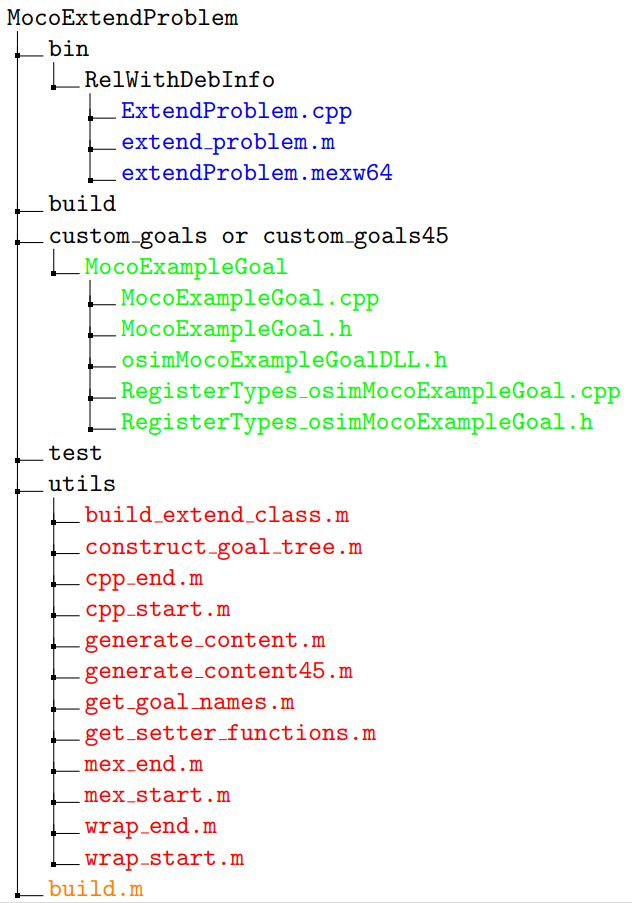
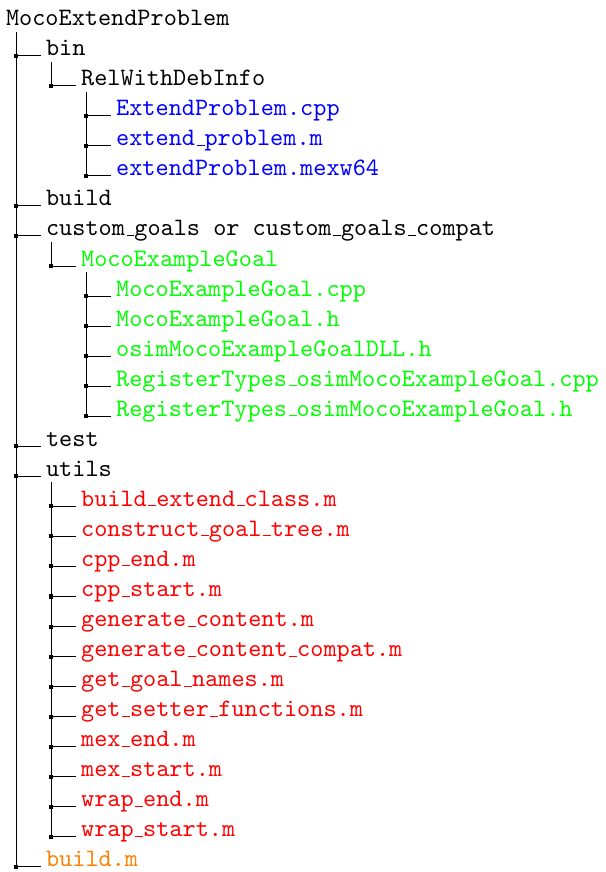
verified MEP in 4.5 and pre4.5, regenerated tree figure

Changed region(s): [[0.0, 0.0, 1.0, 1.0]]

diff --git a/test/example2DWalking/WalkSim_predictive.m b/test/example2DWalking/WalkSim_predictive.m
@@ -345,16 +345,6 @@ solver.set_parallel(1);
 % Solve the problem
 % =================
 gaitPredictiveSolution = study.solve();
-reference_data = MocoTrajectory(output_dir + 'outputReference\states_tracked_states.sto');
-
-if ~gaitPredictiveSolution.isNumericallyEqual(reference_data)
-    warning('The simulation is not numerically equal to outputReference. Check ' + output_dir);
-end
-
-% Check to make sure the problem solved successfully
-if ~strcmp(gaitPredictiveSolution.getStatus(),"Solve_Succeeded")
-    error('The problem did not solve succesfully - exiting');
-end
 
 % Extract some information from the solution
 output(1) = gaitPredictiveSolution.getObjective();
@@ -408,7 +398,7 @@ ref = MocoTrajectory(output_dir + '/outputReference/states_half.sto');
 if gaitPredictiveSolution.isNumericallyEqual(ref)
     warning("output matches output reference for " + output_dir);
 else
-    warning("tracking failed to match reference output for goal " + output_dir);
+    warning("reference failed to match reference output for goal " + output_dir);
 end
 
 end

diff --git a/test/example2DWalking/driver.m b/test/example2DWalking/driver.m
@@ -1,11 +1,11 @@
-opensimroot = 'C:\opensim 4.3\'; %create a char array that has the opensim path toplevel directory
+opensimroot = 'C:\opensim 4.5\'; %create a char array that has the opensim path toplevel directory
 addpath([opensimroot 'bin'], [opensimroot 'sdk\lib']); %add the opensim path to the
 javaaddpath([opensimroot 'bin'], [opensimroot 'sdk\lib']); %add opensimroot bin and the java path to MATLAB's dynamic path path
 setenv('PATH', [[opensimroot 'bin'] ';' [opensimroot 'sdk\lib'] ';' getenv('PATH')]);% Set Windows System path to include OpenSim libraries
 import org.opensim.modeling.* %import opensim api library'
 %% TRACKING
-%warning("starting  sim:Tracking");
-%WalkSim_Tracking();
+warning("starting  sim:Tracking");
+WalkSim_Tracking();
 
 %% PREDICTIVE
 % sims = enumeration(simulation.EFF);
@@ -23,4 +23,4 @@ import org.opensim.modeling.* %import opensim api library'
 %     end
 % end
 %% 
- %WalkSim_predictive(simulation.ZMP);
+ WalkSim_predictive(simulation.ZMP);

diff --git a/test/example2DWalking/WalkSim_predictive_compat.m b/test/example2DWalking/WalkSim_predictive_compat.m
@@ -340,11 +340,7 @@ solver.set_parallel(1);
 % Solve the problem
 % =================
 gaitPredictiveSolution = study.solve();
-reference_data = MocoTrajectory(output_dir + 'outputReference\states_tracked_states.sto');
-
-if ~gaitPredictiveSolution.isNumericallyEqual(reference_data)
-    warning('The simulation is not numerically equal to outputReference. Check ' + output_dir);
-end
+reference_data = MocoTrajectory(output_dir + 'states_half.sto');
 
 % Check to make sure the problem solved successfully
 if ~strcmp(gaitPredictiveSolution.getStatus(),"Solve_Succeeded")
